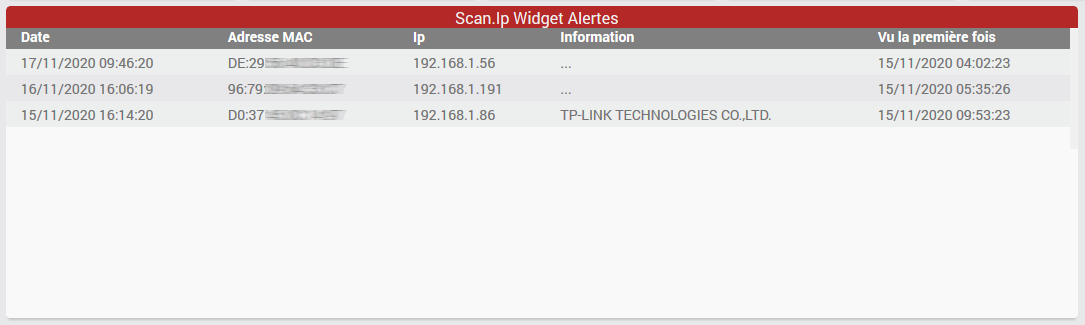
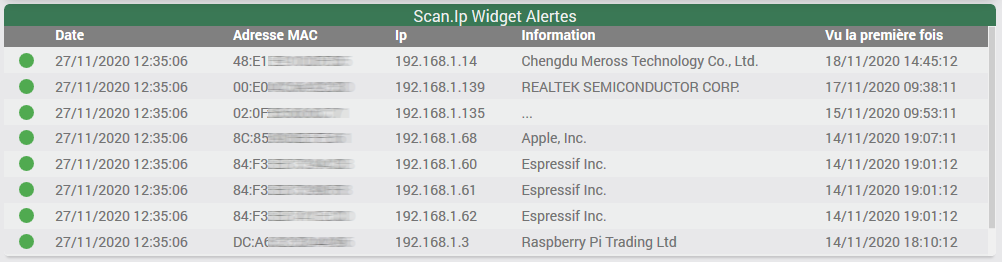
- Mise à jour de la doc - Ajout de l'option reply (scan) en mode avancé - Suppression des largeurs dans les widgets "network" et "alertes" - Prise en compte du mode reply dans la modale de debug

diff --git a/core/class/scan_ip.scan.php b/core/class/scan_ip.scan.php
@@ -142,52 +142,52 @@ class scan_ip_scan extends eqLogic {
             $_now = scan_ip_tools::arrayCompose($_jeedom, $_now);
         }
           
-            foreach ($_now as $mac => $scanLine) {
-                
-                if($scanLine["ip_v4"] == $_ipRoute){
-                    $_return["route"]["ip_v4"] = $scanLine["ip_v4"];
-                    $_return["route"]["mac"] = $mac;
-                    $_return["route"]["equipement"] = $scanLine["equipement"];
-                } 
-                
-                if($add_network_routeur == 1 OR $scanLine["ip_v4"] != $_ipRoute){
-                
-                    if(!empty($_equipement[$mac]["record"])){
-                        $record = $_equipement[$mac]["record"];
-                    } else {
-                        $record = $_infoJeedom["record"];
-                    }
+        foreach ($_now as $mac => $scanLine) {
 
-                    $_return["sort"][] = array(
-                            "record" => $record,
-                            "ip_v4" => $scanLine["ip_v4"], 
-                            "mac" => $mac, 
-                            "time" => $scanLine["time"], 
-                            "equipement" => $scanLine["equipement"]
-                    );
-                    $_return["byIpv4"][$scanLine["ip_v4"]] = array(
-                        "mac" => $mac, 
-                        "equipement" => $scanLine["equipement"], 
-                        "time" => $scanLine["time"], 
-                        "record" => $record
-                        );
-                    $_return["byMac"][$mac] = array(
-                        "ip_v4" => $scanLine["ip_v4"], 
-                        "equipement" => $scanLine["equipement"], 
-                        "time" => $scanLine["time"], 
-                        "record" => $record
-                        );  
-                    $_return["byTime"][$scanLine["time"].$record][] = array(
-                        "time" => $scanLine["time"], 
-                        "mac" => $mac, "ip_v4" => $scanLine["ip_v4"], 
-                        "equipement" => $scanLine["equipement"], 
-                        "record" => $record
-                        );
+            if($scanLine["ip_v4"] == $_ipRoute){
+                $_return["route"]["ip_v4"] = $scanLine["ip_v4"];
+                $_return["route"]["mac"] = $mac;
+                $_return["route"]["equipement"] = $scanLine["equipement"];
+            } 
+                
+            if($add_network_routeur == 1 OR $scanLine["ip_v4"] != $_ipRoute){
+
+                if(!empty($_equipement[$mac]["record"])){
+                    $record = $_equipement[$mac]["record"];
+                } else {
+                    $record = $_infoJeedom["record"];
                 }
-            }
 
-            ksort($_return["sort"]);
-            krsort($_return["byTime"]);
+                $_return["sort"][] = array(
+                        "record" => $record,
+                        "ip_v4" => $scanLine["ip_v4"], 
+                        "mac" => $mac, 
+                        "time" => $scanLine["time"], 
+                        "equipement" => $scanLine["equipement"]
+                );
+                $_return["byIpv4"][$scanLine["ip_v4"]] = array(
+                    "mac" => $mac, 
+                    "equipement" => $scanLine["equipement"], 
+                    "time" => $scanLine["time"], 
+                    "record" => $record
+                    );
+                $_return["byMac"][$mac] = array(
+                    "ip_v4" => $scanLine["ip_v4"], 
+                    "equipement" => $scanLine["equipement"], 
+                    "time" => $scanLine["time"], 
+                    "record" => $record
+                    );  
+                $_return["byTime"][$scanLine["time"].$record][] = array(
+                    "time" => $scanLine["time"], 
+                    "mac" => $mac, "ip_v4" => $scanLine["ip_v4"], 
+                    "equipement" => $scanLine["equipement"], 
+                    "record" => $record
+                    );
+            }
+        }
+
+        ksort($_return["sort"]);
+        krsort($_return["byTime"]);
         
         return $_return;
     }

diff --git a/core/class/scan_ip.widget_network.php b/core/class/scan_ip.widget_network.php
@@ -67,13 +67,13 @@ class scan_ip_widget_network extends eqLogic {
         $replace["#widget_network#"] = '<table style="width: 100%; margin: -5px -5px 22px 0;" id="scan_ip_network_widget">
         <thead>
             <tr style="background-color: grey !important; color: white !important;">
-                <th data-sort="string" style=" width:3%; padding : 3px 0 3px 15px !important; text-align: center;"><span style="cursor: pointer !important; width: 100%;"><b class="caret"></b></span></th>
-                <th data-sort="int" style=" width:3%; text-align: center; padding : 3px 0 3px 15px !important;"><span style="cursor: pointer !important; width: 100%;"><b class="caret"></b></span></th>
-                <th data-sort="string" style="width:12%;padding : 3px 0 3px 15px !important;"><span style="cursor: pointer !important; width: 100%;"><b class="caret"></b> Adresse MAC</span></th>
-                <th data-sort="int" style="width:10%;padding : 3px 0 3px 15px !important;"><span style="cursor: pointer !important; width: 100%;"><b class="caret"></b> Ip</span></th>
-                <th data-sort="string" style="width:29%;padding : 3px 0 3px 15px !important;"><span style="cursor: pointer !important; width: 100%;"><b class="caret"></b> Nom</span></th>
-                <th data-sort="string" style="width:29%;padding : 3px 0 3px 15px !important;"><span style="cursor: pointer !important; width: 100%;"><b class="caret"></b> Commentaire</span></th>
-                <th data-sort="int" style="width:14%;padding : 3px 0 3px 15px !important;"><span style="cursor: pointer !important; width: 100%;"><b class="caret"></b> Date de mise à jour</span></th>
+                <th data-sort="string" style="padding : 3px 0 3px 15px !important; text-align: center;"><span style="cursor: pointer !important; width: 100%;"><b class="caret"></b></span></th>
+                <th data-sort="int" style="text-align: center; padding : 3px 0 3px 15px !important;"><span style="cursor: pointer !important; width: 100%;"><b class="caret"></b></span></th>
+                <th data-sort="string" style="padding : 3px 0 3px 15px !important;"><span style="cursor: pointer !important; width: 100%;"><b class="caret"></b> Adresse MAC</span></th>
+                <th data-sort="int" style="padding : 3px 0 3px 15px !important;"><span style="cursor: pointer !important; width: 100%;"><b class="caret"></b> Ip</span></th>
+                <th data-sort="string" style="padding : 3px 0 3px 15px !important;"><span style="cursor: pointer !important; width: 100%;"><b class="caret"></b> Nom</span></th>
+                <th data-sort="string" style="padding : 3px 0 3px 15px !important;"><span style="cursor: pointer !important; width: 100%;"><b class="caret"></b> Commentaire</span></th>
+                <th data-sort="int" style="padding : 3px 0 3px 15px !important;"><span style="cursor: pointer !important; width: 100%;"><b class="caret"></b> Date de mise à jour</span></th>
             </tr>
         </thead>
         <tbody>';

diff --git a/core/class/scan_ip.shell.php b/core/class/scan_ip.shell.php
@@ -22,10 +22,13 @@ class scan_ip_shell extends eqLogic {
     
     public static function arpScanShell($_subReseau = NULL){
         log::add('scan_ip', 'debug', 'scan_ip_shell::arpScanShell :. Lancement');
+        
         $time = time();
         $return = array();
         
-        exec('sudo arp-scan --interface=' . $_subReseau . ' --localnet --ouifile=' . scan_ip::$_file_oui. ' --iabfile=' .  scan_ip::$_file_iab, $output);
+        $retry = config::byKey('add_retry_scan', 'scan_ip', 3);
+        
+        exec('sudo arp-scan -r ' . $retry .  ' --interface=' . $_subReseau . ' --localnet --ouifile=' . scan_ip::$_file_oui. ' --iabfile=' .  scan_ip::$_file_iab, $output);
         
         foreach ($output as $scanLine) {
             if (preg_match(scan_ip_tools::getRegex("ip_v4"), $scanLine)) {     
@@ -228,7 +231,10 @@ class scan_ip_shell extends eqLogic {
     
 ////////////////////////////////////////////////////////////////////////////////////////////////////////////////////////////////////////////
 # DEPENDANCES
-////////////////////////////////////////////////////////////////////////////////////////////////////////////////////////////////////////////      
+////////////////////////////////////////////////////////////////////////////////////////////////////////////////////////////////////////////  
+////////////////////////////////////////////////////////////////////////////////////////////////////////////////////////////////////////////
+# WAKE ON LAN
+////////////////////////////////////////////////////////////////////////////////////////////////////////////////////////////////////////////    
   
     public static function wakeOnLan($_mac){
         log::add('scan_ip', 'debug', 'wakeOnLan :. wakeonlan '.$_mac);
@@ -243,5 +249,5 @@ class scan_ip_shell extends eqLogic {
             self::wakeOnLan($_mac);
         }
     }
-    
+      
 }

diff --git a/core/class/scan_ip.widget_alerte.php b/core/class/scan_ip.widget_alerte.php
@@ -190,12 +190,12 @@ class scan_ip_widget_alerte extends eqLogic {
         $replace["#last_unknown_equipement#"] = '<table style="width: 100%; margin: -5px -5px 22px 0;">
         <thead>
             <tr style="background-color: grey !important; color: white !important;">
-                <th style="padding : 3px 0 3px 15px !important; width:3%; text-align: center;"></th>
-                <th style="padding : 3px 0 3px 15px !important; width:18%;">Date</th>
-                <th style="padding : 3px 0 3px 15px !important; width:10%;">Adresse MAC</th>
-                <th style="padding : 3px 0 3px 15px !important; width:10%">Ip</th>
-                <th style="padding : 3px 0 3px 15px !important; width:39%">Information</th>
-                <th style="padding : 3px 0 3px 15px !important; width:20%;">Vu la première fois</th>
+                <th style="padding : 3px 0 3px 15px !important; text-align: center;"></th>
+                <th style="padding : 3px 0 3px 15px !important;">Date</th>
+                <th style="padding : 3px 0 3px 15px !important;">Adresse MAC</th>
+                <th style="padding : 3px 0 3px 15px !important;">Ip</th>
+                <th style="padding : 3px 0 3px 15px !important;">Information</th>
+                <th style="padding : 3px 0 3px 15px !important;">Vu la première fois</th>
             </tr>
         </thead>
         <tbody>';

diff --git a/desktop/modal/debug.php b/desktop/modal/debug.php
@@ -63,6 +63,7 @@ require_once dirname(__FILE__) . "/../../../../plugins/scan_ip/core/class/scan_i
 
 <?php
 $subReseau = scan_ip_shell::getSubReseauEnable();
+$retry = config::byKey('add_retry_scan', 'scan_ip', 3);
 if ($subReseau["subReseauEnable"] > 0) {
     foreach ($subReseau["subReseau"] as $sub) {
         if ($sub["enable"] == 1) {
@@ -71,11 +72,11 @@ if ($subReseau["subReseauEnable"] > 0) {
             <div class="col-md-12">
                 <div class="panel panel-primary">
                     <div class="panel-heading">
-                        <h3 class="panel-title"># sudo arp-scan --interface=<?php echo $sub["name"] ?> --localnet --ouifile=ieee-oui.txt</h3>
+                        <h3 class="panel-title"># sudo arp-scan -r <?php echo $retry ?> --interface=<?php echo $sub["name"] ?> --localnet --ouifile=ieee-oui.txt</h3>
                     </div>
                     <div class="panel-body">
                         <?php
-                            scan_ip_shell::printShell("sudo arp-scan --interface=" . $sub["name"] . " --localnet --ouifile=".scan_ip::$_file_oui);
+                            scan_ip_shell::printShell("sudo arp-scan -r " . $retry . " --interface=" . $sub["name"] . " --localnet --ouifile=".scan_ip::$_file_oui);
                         ?>
                     </div>
                 </div>

diff --git a/plugin_info/configuration.php b/plugin_info/configuration.php
@@ -93,6 +93,23 @@ scan_ip_tools::cleanAfterUpdate();
                 </select> 
             </div>
         </div>
+
+<?php
+        scan_ip_tools::vueSubTitle("{{Nombre d'essaie lors des scans (Mode avancé)}}", "config");
+?>             
+        <div class="form-group">
+            <label class="col-lg-4 control-label">{{Option Retry}}
+            <sup><i class="fa fa-question-circle tooltips" title="{{Cela conditionne la durée du scan mais permet d'avoir de meilleurs retours sur l'exploration de votre réseau'}}"></i></sup>
+            </label>
+            <div class="col-lg-5">
+                <select class="configKey form-control" data-l1key="add_retry_scan">
+                    <option value="3">{{3 tentatives (à defaut)}}</option>
+                    <option value="4">{{4 tentatives}}</option>
+                    <option value="5">{{5 tentatives}}</option>
+                    <option value="6">{{6 tentatives}}</option>
+                </select> 
+            </div>
+        </div>
                       
 <?php
         scan_ip_tools::vueSubTitle("{{Compatibilité avec le navigateur Safari (Mode avancé)}}", "config");

diff --git a/README.md b/README.md
@@ -79,6 +79,14 @@ Permet d'ajouter le routeur dans la liste du réseau. A defaut celui-ci est reti
 
 Permet d'ajouter le serveur Jeedom dans la liste du réseau. A defaut celui-ci est retiré.
 
+### Option Retry
+
+Cela permet de régler le nombre de tentatives lors des scans du réseaux. En effet, tous les équippements ne répondent pas en dès la première tentative de scan. A noter que plus vous avez de tentatives, plus le scan mettre du temps à répondre.
+
+### Compatibilité avec le navigateur Safari
+
+Sur le navigateur web Safari le mode caché dans le menu de sélection, qui permet de n'afficher que les bridges non utlisés, n'est pas compatible. De ce fait, en activant cette option, les menus déjà utilisés seront désactivés. Cette option n'est à activer que si vous rencontrez le problème sur Safari.
+
 ### Spécifier des plages réseau à scanner
 
 Lorsque vous avez plusieurs cartes réseaux ou plus particulièrement des sous-réseaux il convient de spécifier le ou les sous réseaux à scanner.
@@ -94,6 +102,10 @@ Lorsque vous avez plusieurs cartes réseaux ou plus particulièrement des sous-r
 Sert à vérifier la présence du fichier oui.txt et iab.txt ainsi que leurs dates de mise à jour.
 
 > Ces deux fichiers servent à faire le lien entre une adresse MAC et un constructeur
+
+## Dépendances
+
+Permet de visualiser, facilement, les dépendances qui sont en echec.
 
 # Gestion des équipements
 
